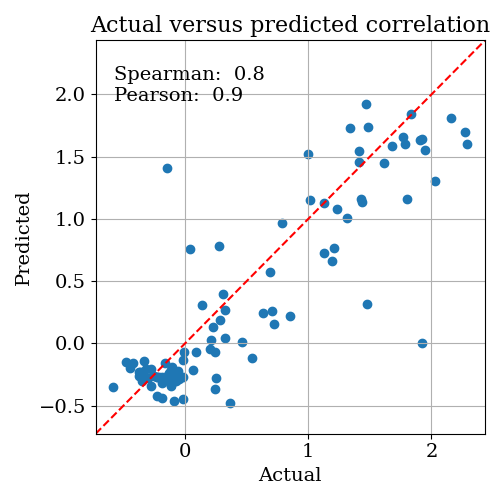
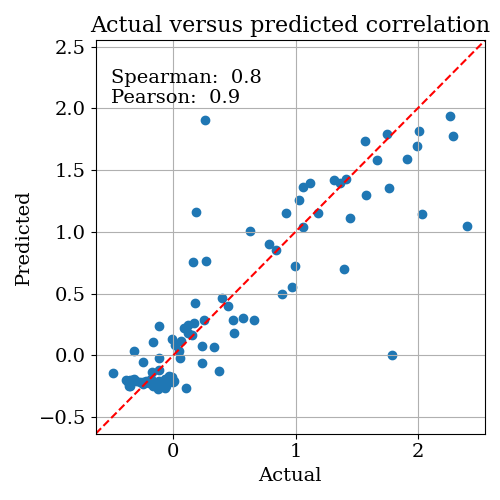
updating phase space example

diff --git a/examples/PhaseSpaceOptimisation/README.md b/examples/PhaseSpaceOptimisation/README.md
@@ -164,25 +164,23 @@ Best parameter set: {'target': -0.5824966507848057, 'params': {'BeamAngularCutof
 
 These values are copied into the below table along with the ground truth values and the range we allowed them to vary over:
 
-| Parameter          | Ground Truth | Allowed Range | Optimized |
-| ------------------ | ------------ | ------------- | --------- |
-| BeamEnergy         | 10           | 6-12          | 9.6 (4%)  |
-| BeamPositionCutoff | 2            | 1-3           | 2.3 (15%) |
-| BeamPositionSpread | 0.3          | .1-1          | .31 (3%)  |
-| BeamAngularSpread  | .07          | .01-1         | .01 (86%) |
-| BeamAngularCutoff  | 5            | 1-10          | 8.1 (62%) |
+| Parameter          | Ground Truth | Allowed Range | Optimized    |
+| ------------------ | ------------ | ------------- | ------------ |
+| BeamEnergy         | 10           | 6-12          | 9.98 (0.2%%) |
+| BeamPositionCutoff | 2            | 1-3           | 1.88 (6%)    |
+| BeamPositionSpread | 0.3          | .1-1          | .1 (66%)     |
+| BeamAngularSpread  | .07          | .01-1         | .19 (171%)   |
+| BeamAngularCutoff  | 5            | 1-10          | 1.0 (80%)    |
 
-Our model actually seems to have done quite a good job!
+We have obtained very close matches to BeamEnergy and BeamPositionCutoff. For the other parameters, we are quite a long way off in percentage terms - although, in absolute terms we are still often pretty close, it's just because many of these parameters have very small starting values that the percentages look so bad.
 
-Another thing that is interesting to look at can be found in the logs/SingleParameterPlots directly.
+An interesting question is - "well, which of these parameters is actually likely to be important in out objective function." You can address this by looking at the plots in logs/SingleParameterPlots:
 
 > **warning:** these plots show the value of the objective function predicted by the model. In the instances where the correlation between the predicted and actual objective functions is high, you can trust that these plots at least correlate with reality. But if the correlation is low, these plots are essentially nonsense.
 
-![](../../docsrc/_resources/phaseSpaceOpt/singeparamplots.png)
+![](../../docsrc/_resources/phaseSpaceOpt/singleparameterplots.png)
 
 These plots show the predicted change in the objective function as each single parameter is varied and all other parameters are held at their optimal value. From these plots, we can see that the most sensitive parameters seem to be BeamEnergy, BeamPositionSpread, and BeamAngularSpread. 
-
-The worset parameter estimates are for BeamAngularSpread and BeamAngularCutoff. Looking at the plots above, BeamAngularCutoff is not predicted to be a very sensitive parameter anyway, so perhaps it is not surprising that the prediction is not very good. And while the percentage error in BeamAngularSpread  is large, the *absolute* error is very small - the true value is .01, and we found .07 in a range of 0-1. So this is actually pretty good too. 
 
 ## NelderMead Optimiser
 
